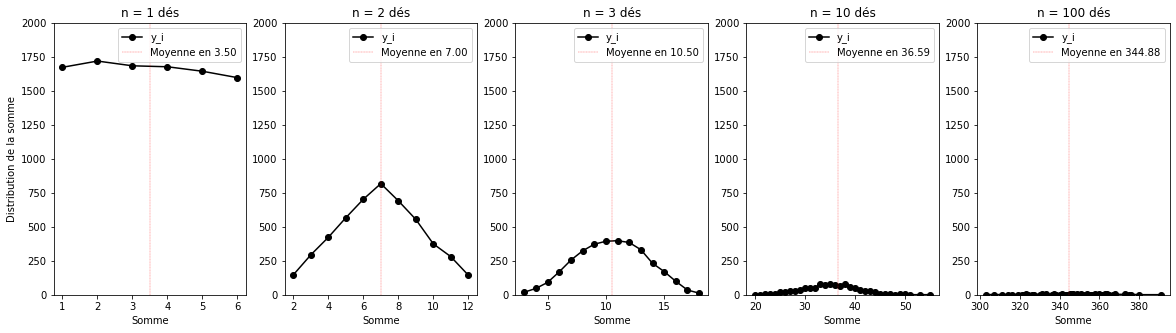
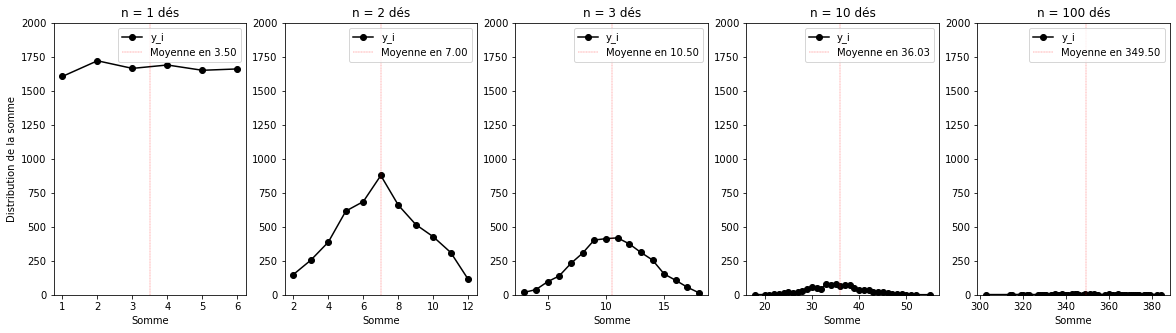
Update documentation

diff --git a/searchindex.js b/searchindex.js
@@ -1,1 +1,1 @@
-Search.setIndex({docnames:["content/LU2PY215/TP/TP1/TP1","content/LU2PY215/TP/TP2/TP2","content/LU2PY215/chapitre1/chapitre1","content/LU2PY215/chapitre1/exercices","content/LU2PY215/chapitre2/chapitre2","content/LU2PY215/chapitre2/exercices","content/LU2PY220/chapitre1","intro"],envversion:{"sphinx.domains.c":2,"sphinx.domains.changeset":1,"sphinx.domains.citation":1,"sphinx.domains.cpp":5,"sphinx.domains.index":1,"sphinx.domains.javascript":2,"sphinx.domains.math":2,"sphinx.domains.python":3,"sphinx.domains.rst":2,"sphinx.domains.std":2,"sphinx.ext.intersphinx":1,"sphinxcontrib.bibtex":9,sphinx:56},filenames:["content/LU2PY215/TP/TP1/TP1.ipynb","content/LU2PY215/TP/TP2/TP2.ipynb","content/LU2PY215/chapitre1/chapitre1.md","content/LU2PY215/chapitre1/exercices.ipynb","content/LU2PY215/chapitre2/chapitre2.md","content/LU2PY215/chapitre2/exercices.ipynb","content/LU2PY220/chapitre1.md","intro.md"],objects:{},objnames:{},objtypes:{},terms:{"0":[0,1,2,3,4,5],"000":0,"000e":0,"007":0,"01":3,"017e":0,"02":[0,4],"022":0,"03":1,"033":0,"044e":0,"047":0,"06":0,"07_15":1,"1":[1,4,7],"10":[0,2,3,4],"100":[0,2],"1000":[0,4,5],"10000":[0,3],"1000000":0,"1018":3,"108204":1,"10cm":4,"11":[0,1,4],"110":5,"12":[0,2,4],"125":4,"13":1,"130187":1,"133771":1,"14":[2,3],"15":[1,4],"16":[0,4],"166292":1,"170":4,"170cm":4,"18":1,"180":4,"180cm":4,"186":3,"1933":2,"1e6":0,"2":[1,2,6,7],"20":[0,3],"200":3,"2000":0,"24":1,"25":[0,2,4],"26":2,"260":4,"266":3,"28":2,"297":3,"2_x":2,"2_y":2,"2f":0,"2x":5,"2y":5,"3":[0,1,2,4],"320":3,"334":3,"350":0,"352623":1,"36":2,"368":3,"393e":0,"3e":0,"3f":[0,3],"3x":4,"4":[0,1,2,4],"411521":1,"417233":1,"454750":1,"5":[0,1,2,3,4],"50":[0,2],"509146":1,"52":4,"520":0,"566":3,"568":3,"578625":1,"587667":1,"6":[0,1,2,3,4],"643856189774724":3,"668104":1,"675438":1,"7":[0,1,2,3,4],"70":2,"736":0,"75":[2,4,5],"785792":1,"8":[0,1,2,4],"81":1,"875":3,"877":0,"9":[0,1,2,4],"917":0,"919563":1,"922195":1,"939":0,"989441":1,"99":3,"992":3,"999":3,"\u00e0":[0,1,2,3,4,5,6],"\u00e9cart":[0,2,4],"\u00e9chang":5,"\u00e9chantillon":4,"\u00e9chec":4,"\u00e9clo":5,"\u00e9closion":5,"\u00e9crire":[4,5,6],"\u00e9crit":5,"\u00e9gal":4,"\u00e9gale":[0,1,4,5],"\u00e9gaux":4,"\u00e9l\u00e9ment":[0,2,4],"\u00e9lectriqu":4,"\u00e9nergi":2,"\u00e9quation":[2,4],"\u00e9quiprob":4,"\u00e9tait":2,"\u00e9tudier":0,"\u00e9v\u00e8nement":[2,3,4,5],"\u00e9v\u00e9nement":[1,4],"\u00e9valuer":4,"\u00e9xpliquer":2,"\u00eatre":[2,4],"al\u00e9atoir":[0,2,5],"al\u00e9atori":2,"appara\u00eet":2,"appel\u00e9":4,"apr\u00e8":[0,2],"arriv\u00e9":4,"associ\u00e9":[3,4,5,6],"asym\u00e9tri":3,"asymm\u00e9tri":3,"atmosph\u00e9riqu":2,"calcul\u00e9":[0,4],"caract\u00e9ris":[3,4],"carr\u00e9":[2,4],"cart\u00e9sien":5,"collect\u00e9":4,"concentr\u00e9":4,"conna\u00eetr":2,"cons\u00e9cutif":2,"cons\u00e9quent":4,"consid\u00e8r":[2,3],"consid\u00e9r":5,"coordonn\u00e9":6,"corr\u00e9l\u00e9":2,"corr\u00e9lat":[2,3],"cr\u00e9\u00e9":[2,4],"cr\u00e9ation":4,"cr\u00e9e":[2,3],"d\u00e9":[2,4],"d\u00e9corr\u00e9l\u00e9":3,"d\u00e9couper":4,"d\u00e9crit":4,"d\u00e9duir":[2,4],"d\u00e9fini":[2,4,5],"d\u00e9finier":[2,4],"d\u00e9finir":[0,2,4],"d\u00e9finit":[4,5,6],"d\u00e9montrer":[4,5],"d\u00e9nombrabl":4,"d\u00e9part":4,"d\u00e9pend":2,"d\u00e9riv\u00e9":4,"d\u00e9termin":4,"d\u00e9velopp":7,"deuxi\u00e8m":[2,6],"diff\u00e9renc":[1,4],"diff\u00e9rentiel":4,"dispers\u00e9":4,"distribu\u00e9":[4,5],"divis\u00e9":2,"donn\u00e9":[0,3,4,5,6],"dur\u00e9":4,"esp\u00e8c":5,"esp\u00e9ranc":4,"exp\u00e9rienc":[2,4],"fa\u00e7on":[1,2,4],"final":[0,2,3,5],"fix\u00e9":4,"fl\u00e9chett":3,"fr\u00e9quenc":[0,2],"fr\u00e9quent":0,"g\u00e9n\u00e9rale":2,"g\u00e9n\u00e9rer":[4,5],"gr\u00e2ce":1,"humidit\u00e9":2,"hygrom\u00e9tri":2,"hypoth\u00e8s":0,"import":[0,1,2,3,4,5],"impr\u00e9vis":2,"ind\u00e9nombr":4,"ind\u00e9pend":2,"ind\u00e9pendant":[2,4,5],"inf\u00e9rieur":[2,4],"infinit\u00e9":4,"int":0,"int\u00e9gr\u00e9":4,"int\u00e9gral":4,"intitul\u00e9":2,"jou\u00e9":4,"l\u00e9gend":4,"lan\u00e7ag":0,"limit\u00e9":5,"long":4,"m\u00e9dian":[2,4],"m\u00e9t\u00e9o":2,"m\u00e9t\u00e9orologiqu":2,"m\u00eame":[0,2,3,4,5,6],"mani\u00e8r":[0,4],"marqu\u00e9":4,"math\u00e9matiqu":[2,4],"maturi\u00e9":5,"maturit\u00e9":5,"mod\u00e8l":[2,4],"moiti\u00e9":2,"n\u00e9gativ":2,"n\u00e9glige":2,"normalis\u00e9":[4,5],"not\u00e9":[2,4],"null":4,"num\u00e9riqu":2,"num\u00e9ro":1,"o\u00f9":[0,2,3,4,6],"organis\u00e9":7,"p\u00e9riod":4,"parall\u00e9logramm":6,"param\u00e8tr":[0,2,4,5],"pass\u00e9":[0,2],"perp\u00e9ndiculair":6,"ph\u00e9nom\u00e8n":2,"pi\u00e8c":[2,4],"pip\u00e9":0,"pond\u00e9r\u00e9":4,"pr\u00e9c\u00e9dent":[2,4],"pr\u00e9cise":[0,2],"pr\u00e9dictif":2,"pr\u00e9diction":2,"pr\u00e9dire":2,"pr\u00e9duir":2,"pr\u00e9pare":2,"premi\u00e8r":[1,2],"probabilit\u00e9":[3,5],"probabilt\u00e9":4,"propri\u00e9t\u00e9":4,"propriet\u00e9":2,"quantit\u00e9":2,"r\u00e8gle":[2,4,6],"r\u00e9action":4,"r\u00e9cup\u00e9rer":0,"r\u00e9ecrit":4,"r\u00e9ell":4,"r\u00e9ferenc":4,"r\u00e9p\u00e8te":4,"r\u00e9p\u00e9t\u00e9e":0,"r\u00e9p\u00e9tabl":2,"r\u00e9parti":4,"r\u00e9partit":4,"r\u00e9pons":2,"r\u00e9present":6,"r\u00e9soudr":[4,5],"r\u00e9sultat":[0,2,4,5],"r\u00e9ussit":4,"r\u00f4le":5,"repr\u00e9sent":4,"repres\u00e9nt":6,"return":[0,1,3,4,5],"s\u00e9pare":2,"s\u00e9parent":2,"similarit\u00e9":2,"succ\u00e8":4,"sup\u00e9rieur":[0,2],"syst\u00e8m":2,"temp\u00e9rateur":2,"temp\u00e9ratur":[2,3,4],"th\u00e9or\u00e8m":2,"th\u00e9ori":2,"th\u00e9oriqu":4,"tr\u00e8":[0,2,4,7],"trouv\u00e9":0,"true":[0,1,3,4,5],"uniform\u00e9":[4,5],"v\u00e9rifient":4,"v\u00e9rifier":[0,5],"validit\u00e9":4,"var":[2,3],"wikip\u00e9dia":4,A:[2,3,6],On:[0,1,2,3,4,5,6],_0:4,_:[0,2,3,4,5],ab:[0,6],absciss:4,ac:6,acoust:1,additionn:0,affich:[0,1,2,3],affichag:0,aid:[4,6],aider:2,ailleur:4,ainsi:[2,3,4,5,6],air:[2,4],ait:2,ajout:0,alami:2,aleatoir:4,all:1,allon:0,alor:[0,2,3,4],alpha:[2,3,4,5],ampoul:4,analys:2,andrei:2,apliqu:5,apparit:[0,2],apparu:0,appel:2,append:[0,3],applatiss:3,applatissement_1:3,applatissement_press:3,appliqu:4,approx:4,ar:0,arang:[0,1,5],arcco:5,arcosinu:5,argmax:4,arriv:[4,5],arriveront:5,artist:1,associ:4,asymmetrie_1:3,asymmetrie_2:3,asymmetrie_pression_1:3,asymmetrie_pression_2:3,attendu:[0,5],attent:4,au:[2,3,4,6],augment:0,aura:4,aurait:2,aussi:[2,3,4,6],autour:4,autr:[0,2,3],aux:[2,3,4],avanc:2,avec:[1,2,3,4,5],avez:7,avoir:[0,2,3,4],avon:3,ax1:0,ax2:[0,2],ax3:0,ax4:0,ax5:0,ax:[0,2,4],axi:[2,5],axiom:2,axvlin:0,b:[2,3,4,6],b_1:2,b_2:2,b_i:2,b_n:2,ball:4,bar:[2,3],basket:4,bay:2,bc:6,begin:6,besoin:2,bien:[2,4,5],bienvenu:7,biject:5,bin:[0,2,3,4,5],binom:[4,5],binomial:5,bins_list:2,black:[0,2],bordur:3,born:0,c0:2,c1:2,c:[0,2,3],ca:[0,2,3,4,5],calcul:[1,2,3,4,5],calcul_ecart_apparit:0,calcul_ecart_valeurs_frequ:0,calcul_frequ:0,calcul_frequence_apparit:0,calcul_yi:0,calul:4,cap:[2,3],car:[0,2,4,5,7],cart:4,cd:6,ce:[0,2,6,7],cela:[0,4],cell:[0,4],celsiu:2,central:2,cepend:[0,4],certain:[2,4,5],cet:5,cett:[0,1,2,3,4],chanc:4,chang:[2,5],chapitr:7,chaqu:[0,1,4],cherch:3,chimiqu:4,choisi:4,choisissez:4,chose:5,cibl:3,classiqu:4,clf:3,client:4,close:0,cm:4,co:5,code:4,codomain:4,coeffici:[2,3],colonn:1,color:[0,2],column:[2,3],com:[2,3],combien:3,combin:0,combinaison:4,combinatio:0,comm:[2,4],commenc:0,comment:2,compa:6,compar:[1,3,4],composit:6,compri:5,compris:4,compt:4,comptag:4,compter:5,concluir:2,conclur:0,conditionnel:2,confront:2,connu:4,constaton:5,construir:2,contenu:7,contient:0,continu:5,convers:3,convertir:2,corp:4,corrcoef:3,correl:3,correlation_temp_press:3,correspond:4,cosinu:5,count:0,coupl:6,cour:[2,7],courb:4,cov:[2,3],covari:[2,3],covariance_temp_press:3,create_list:0,creation:4,crois:5,croissant:[4,5],csv:[1,2,3],cumul:[4,5],cup:[2,3],d:[2,3,5,6],dan:[0,2,3,4,5,7],data:1,date:[2,3],date_object:2,dateformatt:2,datetim:[2,3],de:[3,5,7],def:[0,1,3,4,5],definir:6,delta:4,densiti:[0,4,5],deux:[0,1,2,3,4,5,6],devient:[0,5],devraient:0,df:[2,4],dg:4,diff:1,differ:[1,2],dire:[0,2,3,4,7],discret:4,dispers:[2,4],dispos:4,disposon:4,distingu:4,distribut:[2,3,4,5],dit:[0,2],divis:4,doit:[0,3,4],domain:4,donc:[0,2,3,4,5,7],donn:[4,5,6],donnant:4,donner:[2,5],dont:[0,4],dot:2,download:[2,3],droit:[0,5,6],dropna:1,dt:[2,3,4],du:[2,3,4,5],dx:[4,5],dy:4,e:[4,5],ec:0,ecart:[0,2,4],ecart_moyen:0,ecart_moyen_apparit:0,ecart_moyen_vari:0,ell:[0,2,3,4,5],emptyset:4,en:[0,1,3,4,5,7],end:[0,6],ensembl:[2,3,4],ensemblr:2,entier:2,entour:2,entr:[0,1,2,3,4,5],envi:4,environ:0,erf:4,erreur:7,errorbar:1,errorbarcontain:1,es:[2,3],espac:[4,7],est:[0,1,2,3,5,6,7],estim:4,et:[3,5,6],etc:[0,1,2,4],eu:2,eux:[5,6],event:1,exact:4,exampl:0,exempl:[0,1,2,5],exercic:2,exercis:4,exp:4,expliqu:0,exponentiel:4,extern:6,extract:[2,3],extrair:[3,4],extrem:4,f:[4,5],f_i:[0,3],f_inv:[4,5],face:[0,2,4],fair:[0,2],fait:[0,2,4],fals:[1,3],fauss:2,faut:1,faux:2,fier:7,fig:[0,2,4],figsiz:0,figur:[0,2,4],file:4,fin:[0,4],fine:2,fini:4,flechett:3,fmt:1,foi:[0,2,3,4,5],fonction:[0,1,2,3,5],form:[0,3,5],format:[0,3],forment:6,formul:[1,3,4,5],fortement:2,foundat:2,frac:[0,2,3,4,5],frequenc:0,frequence_apparition_dans_y_i:0,from:[0,2,3,4],futur:2,g:[1,4],gamm:4,gard:0,gaussian:4,gaussienn:[],gaz:4,gen:4,geq:[3,4],get:[0,3],get_hist_not_graph:0,github:[2,3],given:0,grand:[0,2,3,4],grandeur:3,graphiqu:[0,2],guiguem:[2,3],guillemotleft:[],h:[2,3],hasard:4,hat:4,hauteur:4,head:1,header:[2,3],here:[],hist:[0,2,3,4,5],histogramm:[2,3],how:0,hpa:[2,3],http:[2,3],hygrometri:2,i:[0,1,2,3,4,5],i_:3,i_i:3,il:[1,2,3,4,6],illustr:2,imag:[2,4],impair:2,important:[2,4],imposs:4,incertidud:4,incompat:3,index:0,individu:4,infini:4,infti:[2,4],inject:4,insid:[],int_:[4,5],int_a:4,integr:4,intern:6,interv:[0,1],interval:[0,1,4,5],interval_diff_compar:1,invers:[4,5],isol:5,j:0,jamai:5,je:7,jet:0,jett:0,jeu:[0,4],joueur:[3,4],jour:4,just:0,justifi:3,k:[3,4,5],kappa:3,keep:0,kolmogorov:2,l:[0,1,2,3,4,5],la:[0,1,3,5,6],label:[0,3,4,5],labelcolor:2,lambda:[4,5],lanc:2,lancer:[0,3,4],le:[0,1,2,3,4,5,6,7],left:[4,5],leg:4,legend:[0,4,5],len:[0,1,3],leq:[2,4],leqq:2,lesquel:4,leur:0,librairi:4,lieu:2,lign:1,lim:2,lim_:4,linestyl:0,linewidth:0,lire:3,list:[2,3,4],list_moyenn:3,list_n:3,list_somme_pair:0,list_vari:3,lista:0,listb:0,listc:0,listd:0,liste1:3,liste2:3,livr:2,log:3,logiciel:4,logiqu:0,loi:[5,6],lor:[0,4],lorsqu:[0,3,4],lt:4,m:[1,2,3,4,6],mai:[0,4],mainten:[0,3,6],mani:0,maplotlib:4,markers:[4,5],marqu:4,marquer:4,match:4,math:4,mathbb:4,mathcal:[2,3],matplotlib:[0,1,2,3,4,5],maximal:[0,2],mdate:2,me:7,mean:[0,2,3],med:4,median:2,merci:7,mesur:[2,3],meteo:[2,3],method:0,minimal:[0,2,3],minut:4,miu:3,mode:[2,4],moin:[0,2,3],mon:7,monnai:4,monoton:5,montr:[0,6],morceaux:4,moyen:[0,4],moyenn:[0,2,3,4,5],moyenne_bin:3,moyenne_ecarts_valeurs_frequ:0,moyenne_freq:0,moyenne_pair:0,moyenne_press:3,mu:4,n:[0,2,3,4,5],n_1:4,n_2:4,n_3:4,n_:3,n_i:4,n_unif:[4,5],n_valeur:0,nan:1,naturel:2,ne:[0,2,5],neq:2,nombr:[0,2,3,4,5],nombre_essai:3,nombre_succ:3,nombreus:4,nombreux:5,non:4,normal:0,notat:2,note:[2,4],noter:4,notr:5,nou:[0,2,3,4,5],nouveau:[2,7],np:[0,1,2,3,4,5],nul:4,num:0,num_point:0,numpi:[0,1,2,3,4,5],o:[0,1,3,4,6],object:[0,1],objet:[2,3],observ:[2,4],obtenir:[0,2,4,5],obtenu:[0,2],obtient:[0,2],occur:[0,2],oeuf:[4,5],om:6,omega:[2,3,4],one:0,ont:3,operatornam:4,ordonn:4,origin:6,ou:[0,2,3,7],oui:5,overlin:2,p:[0,2,3,4,5],pa:[0,2,3,4,5],pair:[0,2],panda:[1,2,3],panier:4,par:[0,2,4,5,6],parmi:[2,4,5],partag:7,particuli:4,partir:[2,3,4,6],pass:5,patch:[0,3,4,5],pd:[1,2,3],pdf:4,pendant:4,period:2,permet:[0,2,4,5],permettr:4,personn:4,personnel:7,petit:[2,4,5],peut:[0,2,3,4,5,6],peuvent:4,phi:4,physexp2:[2,3],pi:[4,5],pile:[2,4],place:6,plan:[5,6],plot:[0,1,2,3,4,5],plt:[0,1,2,3,4,5],plu:[0,2,3,4],plusieur:4,pmatrix:6,pmf:4,point:[5,6],poisson:5,pondent:5,pondr:5,pondu:[4,5],pont:5,popul:4,posit:4,positiv:2,possibl:[2,4],poue:5,poul:4,pour:[0,1,2,3,4,5],pourquoi:0,pourra:4,pourrait:6,pouvait:4,pouvoir:2,pow:4,power:4,premier:3,prend:4,prendr:[2,4],prenn:4,pression:[2,3,4],pressur:2,print:[0,1,2,3],prise:[2,4],proba:3,probabl:2,processu:[2,4],proch:[0,4],produir:[4,5],produis:[4,5],produit:[2,6],projet:7,proportionnel:4,proposit:2,publi:2,pui:0,pyplot:[0,1,2,3,4,5],python:[0,4,5],q:[2,4],qu:[0,2,3,5],quad:4,quand:0,quantil:2,que:[0,1,2,3,5,6],quelconqu:6,quell:[2,5],quelqu:[2,4],question:7,qui:[0,1,2,4,5],r:[0,4,5],racin:2,rand:[4,5],randint:0,random:[3,4,5],rang:[0,1,2,3,4,5],rappel:[2,4,5],rapport:[0,2,4],rapproch:0,read_csv:[1,2,3],recherch:2,red:0,rel:2,relat:[2,4],releas:[2,3],remarqu:2,remov:0,repeat:0,reshape_yi:0,respect:2,restreint:2,retourn:[0,3,4],rho:2,rho_:3,right:[4,5],rightarrow:[2,4],rotat:2,round:[0,1],s:[1,2,3,4],sa:[0,2,3,4],sachant:2,sait:[2,3],san:0,scipi:[2,3,4],sdfltuw6gho:2,se:[0,4,5],second:2,selon:[0,4,5,7],sep:1,sera:4,servir:2,set:0,set_major_formatt:2,set_minor_formatt:2,set_titl:0,set_xlabel:[0,2,4],set_ylabel:[0,2],set_ylim:0,seul:4,seulement:2,sharei:0,show:[0,1,2,3,4,5],si:[0,2,3,4,5,6,7],sig:4,sigma:[2,3,4],sigma_:[2,3],sigma_i:[0,2,3],sigma_k:4,sigma_p:4,sigma_x:[2,3],signifi:[0,4],simpl:2,simul:3,sin:[4,5],sinon:3,sinusoidal:5,situ:0,six:4,skew:3,soient:6,soit:[2,3,4],solut:[4,5],somm:[2,3,4,6],somment:4,son:2,sont:[0,2,3,4,6],sou:[2,3,4,5],souvent:2,sqrt:[2,4],start:0,stat:[2,3,4],statistiqu:[3,4],std:[2,3],step:[0,5],stopwatch_2023:1,str:0,strptime:[2,3],subplot:[0,2,4],substitu:4,sui:7,suit:[4,5],suivant:[2,4,5,7],suivent:0,sum:[0,2,3],sum_:[0,2,3,4,5],sum_i:0,support:4,suppos:[2,4],supposon:[2,4],supprim:1,sur:[0,2,3,5],surject:4,t:4,t_i:1,tableau:7,taill:[0,2,4],tel:2,tell:4,temp:[1,2,3,4,5],temperatur:2,temporel:2,tend:0,tendanc:[2,3],tent:4,term:[4,5],tester:[4,5],text:4,textbf:6,theori:2,theoriqu:3,tick_param:2,tight_layout:0,time:[0,1,2,4,5],tirag:4,tire:3,tirer:3,tireur:3,titl:[0,1,3,4,5],titr:4,to_list:[2,3],to_numer:[2,3],tomb:2,tomber:2,tortu:5,total:[0,4],tou:5,touch:3,touche_c:3,toucher:3,toujour:[2,4],tout:[4,7],tp:0,trace:1,tracer:[3,6],tranch:2,transform:4,triangulair:0,trouv:4,trouver:[2,3,4,5],trouverait:2,trouvez:7,twinx:2,two:0,type:[0,2,4],u:6,un:[2,3,5,6,7],underset:4,uniform:[0,5],uniqu:[0,2],univ:[2,3,4],updat:5,url:[2,3],utilis:[2,3,4,5],v1:[2,3],v:[2,3,6],v_i:1,va:[0,2,3,4],val:4,valent:3,valeu:2,valeur:[0,2,3,4,5],valeurs_n:0,valid:5,valu:[0,4,5],variabl:2,varianc:[2,3,4],variance_bin:3,variance_press:3,variat:[0,2],vaut:[3,4,5],vec:6,vectoriel:6,vent:4,ver:0,verif:0,verifi:1,verifiez:[2,4],veut:[0,3,4,5],vie:[4,7],visuel:0,vitess:[1,2,4],voir:[0,2,4],voit:0,vou:[4,7],voulon:4,vrai:2,vraie:2,vs:[2,4],vue:3,w:6,watch:2,we:0,what:[],when:0,without:3,www:2,x1:4,x2:4,x:[0,1,2,3,4,5,6],x_0:0,x_1:0,x_2:0,x_3:0,x_4:0,x_5:0,x_6:0,x_7:0,x_:4,x_i:[0,2,3,4],xaxi:2,xlabel:[0,1,3,4,5],xtick:[2,5],xy:[2,3],y1:[2,4],y2:4,y:[0,1,2,3,4,5],y_0:0,y_1:0,y_2:0,y_3:0,y_i:[0,2,3,4],yerr:1,ylabel:[0,1,3,4,5],youtub:2,zip:3},titles:["TP1 : Distribution du tirage de d\u00e9s","TP2 : Mesure du coefficient de rebond d\u2019une balle","Chapitre 1","Exercice 1","Chapitre 2","Exercise 5","Chapitre 1","Physique CA"],titleterms:{"1":[0,2,3,5,6],"2":[0,3,4,5],"3":[3,5],"4":[3,5],"5":5,"6":5,"\u00e9chantillon":2,"al\u00e9atoir":4,"caract\u00e9ris":2,"cart\u00e9sienn":6,"coordon\u00e9":6,"cr\u00e9ation":0,"d\u00e9":0,"d\u00e9finit":2,"d\u00e9monstrat":4,"densit\u00e9":4,"discr\u00e8t":4,"donn\u00e9":2,"exp\u00e9rimental":[2,4,7],"g\u00e9n\u00e9ration":[0,4],"m\u00e9thode":7,"math\u00e9matiqu":7,"orthonorm\u00e9":6,"probabilit\u00e9":[0,2,4],"propri\u00e9t\u00e9":2,"r\u00e9lation":6,"rep\u00e9rer":6,"repr\u00e9sent":2,"syst\u00e8m":6,arguello:[0,1],auteur:[0,1],avec:0,ball:1,bernoulli:4,biject:4,binomial:4,c:4,ca:7,calcul:0,camilo:[0,1],ce:4,changement:4,chapitr:[2,4,6],chasl:6,coeffici:1,comment:6,concept:2,continu:4,d:[0,1,4],dan:6,de:[0,1,2,4,6],distribut:0,du:[0,1],en:2,ensemblist:2,erreur:4,espac:6,est:4,estim:0,estimateur:4,et:[0,2,4],exempl:4,exercic:3,exercis:5,fonction:4,form:4,gaussienn:4,histogramm:0,identiqu:6,introduct:0,l:6,la:[2,4],list:0,loi:4,mesur:[1,4],normal:4,notion:4,ou:4,physiqu:[2,7],pipag:0,place:2,poisson:4,popul:2,qu:4,que:4,question:5,random:0,rebond:1,remplissag:0,se:6,somm:0,statistiqu:2,sur:4,tirag:0,tp1:0,tp2:1,un:[0,1,4],uniform:4,usuel:4,variabl:4,vecteur:6}})
+Search.setIndex({docnames:["content/LU2PY215/TP/TP1/TP1","content/LU2PY215/TP/TP2/TP2","content/LU2PY215/chapitre1/chapitre1","content/LU2PY215/chapitre1/exercices","content/LU2PY215/chapitre2/chapitre2","content/LU2PY215/chapitre2/exercices","content/LU2PY220/chapitre1","intro"],envversion:{"sphinx.domains.c":2,"sphinx.domains.changeset":1,"sphinx.domains.citation":1,"sphinx.domains.cpp":5,"sphinx.domains.index":1,"sphinx.domains.javascript":2,"sphinx.domains.math":2,"sphinx.domains.python":3,"sphinx.domains.rst":2,"sphinx.domains.std":2,"sphinx.ext.intersphinx":1,"sphinxcontrib.bibtex":9,sphinx:56},filenames:["content/LU2PY215/TP/TP1/TP1.ipynb","content/LU2PY215/TP/TP2/TP2.ipynb","content/LU2PY215/chapitre1/chapitre1.md","content/LU2PY215/chapitre1/exercices.ipynb","content/LU2PY215/chapitre2/chapitre2.md","content/LU2PY215/chapitre2/exercices.ipynb","content/LU2PY220/chapitre1.md","intro.md"],objects:{},objnames:{},objtypes:{},terms:{"0":[0,1,2,3,4,5],"000":0,"000e":0,"007":0,"01":3,"02":[0,4],"022":0,"03":1,"033":0,"047":0,"052e":0,"057e":0,"06":0,"077e":0,"07_15":1,"1":[1,4,7],"10":[0,2,3,4],"100":[0,2],"1000":[0,4,5],"10000":[0,3],"1000000":0,"1018":3,"108204":1,"10cm":4,"11":[0,1,4],"110":5,"12":[0,2,4],"125":4,"13":1,"130187":1,"133771":1,"14":[2,3],"15":[1,4],"16":[0,4],"166292":1,"170":4,"170cm":4,"18":1,"180":4,"180cm":4,"186":3,"1933":2,"1e6":0,"2":[1,2,6,7],"20":[0,3],"200":3,"2000":0,"24":1,"25":[0,2,4],"26":2,"260":4,"266":3,"28":2,"297":3,"2_x":2,"2_y":2,"2f":0,"2x":5,"2y":5,"3":[0,1,2,4],"320":3,"334":3,"350":0,"352623":1,"36":2,"368":3,"3e":0,"3f":[0,3],"3x":4,"4":[0,1,2,4],"411521":1,"417233":1,"454750":1,"5":[0,1,2,3,4],"50":[0,2],"509146":1,"52":4,"520":0,"566":3,"568":3,"578625":1,"587667":1,"6":[0,1,2,3,4],"643856189774724":3,"668104":1,"675438":1,"695":0,"7":[0,1,2,3,4],"70":2,"75":[2,4,5],"785792":1,"8":[0,1,2,4],"81":1,"875":3,"877":0,"9":[0,1,2,4],"917":0,"919563":1,"922195":1,"937":0,"989441":1,"99":3,"992":3,"999":3,"\u00e0":[0,1,2,3,4,5,6],"\u00e9cart":[0,2,4],"\u00e9chang":5,"\u00e9chantillon":4,"\u00e9chec":4,"\u00e9clo":5,"\u00e9closion":5,"\u00e9crire":[4,5,6],"\u00e9crit":5,"\u00e9gal":4,"\u00e9gale":[0,1,4,5],"\u00e9gaux":4,"\u00e9l\u00e9ment":[0,2,4],"\u00e9lectriqu":4,"\u00e9nergi":2,"\u00e9quation":[2,4],"\u00e9quiprob":4,"\u00e9tait":2,"\u00e9tudier":0,"\u00e9v\u00e8nement":[2,3,4,5],"\u00e9v\u00e9nement":[1,4],"\u00e9valuer":4,"\u00e9xpliquer":2,"\u00eatre":[2,4],"al\u00e9atoir":[0,2,5],"al\u00e9atori":2,"appara\u00eet":2,"appel\u00e9":4,"apr\u00e8":[0,2],"arriv\u00e9":4,"associ\u00e9":[3,4,5,6],"asym\u00e9tri":3,"asymm\u00e9tri":3,"atmosph\u00e9riqu":2,"calcul\u00e9":[0,4],"caract\u00e9ris":[3,4],"carr\u00e9":[2,4],"cart\u00e9sien":5,"collect\u00e9":4,"concentr\u00e9":4,"conna\u00eetr":2,"cons\u00e9cutif":2,"cons\u00e9quent":4,"consid\u00e8r":[2,3],"consid\u00e9r":5,"coordonn\u00e9":6,"corr\u00e9l\u00e9":2,"corr\u00e9lat":[2,3],"cr\u00e9\u00e9":[2,4],"cr\u00e9ation":4,"cr\u00e9e":[2,3],"d\u00e9":[2,4],"d\u00e9corr\u00e9l\u00e9":3,"d\u00e9couper":4,"d\u00e9crit":4,"d\u00e9duir":[2,4],"d\u00e9fini":[2,4,5],"d\u00e9finier":[2,4],"d\u00e9finir":[0,2,4],"d\u00e9finit":[4,5,6],"d\u00e9montrer":[4,5],"d\u00e9nombrabl":4,"d\u00e9part":4,"d\u00e9pend":2,"d\u00e9riv\u00e9":4,"d\u00e9termin":4,"d\u00e9velopp":7,"deuxi\u00e8m":[2,6],"diff\u00e9renc":[1,4],"diff\u00e9rentiel":4,"dispers\u00e9":4,"distribu\u00e9":[4,5],"divis\u00e9":2,"donn\u00e9":[0,3,4,5,6],"dur\u00e9":4,"esp\u00e8c":5,"esp\u00e9ranc":4,"exp\u00e9rienc":[2,4],"fa\u00e7on":[1,2,4],"final":[0,2,3,5],"fix\u00e9":4,"fl\u00e9chett":3,"fr\u00e9quenc":[0,2],"fr\u00e9quent":0,"g\u00e9n\u00e9rale":2,"g\u00e9n\u00e9rer":[4,5],"gr\u00e2ce":1,"humidit\u00e9":2,"hygrom\u00e9tri":2,"hypoth\u00e8s":0,"import":[0,1,2,3,4,5],"impr\u00e9vis":2,"ind\u00e9nombr":4,"ind\u00e9pend":2,"ind\u00e9pendant":[2,4,5],"inf\u00e9rieur":[2,4],"infinit\u00e9":4,"int":0,"int\u00e9gr\u00e9":4,"int\u00e9gral":4,"intitul\u00e9":2,"jou\u00e9":4,"l\u00e9gend":4,"lan\u00e7ag":0,"limit\u00e9":5,"long":4,"m\u00e9dian":[2,4],"m\u00e9t\u00e9o":2,"m\u00e9t\u00e9orologiqu":2,"m\u00eame":[0,2,3,4,5,6],"mani\u00e8r":[0,4],"marqu\u00e9":4,"math\u00e9matiqu":[2,4],"maturi\u00e9":5,"maturit\u00e9":5,"mod\u00e8l":[2,4],"moiti\u00e9":2,"n\u00e9gativ":2,"n\u00e9glige":2,"normalis\u00e9":[4,5],"not\u00e9":[2,4],"null":4,"num\u00e9riqu":2,"num\u00e9ro":1,"o\u00f9":[0,2,3,4,6],"organis\u00e9":7,"p\u00e9riod":4,"parall\u00e9logramm":6,"param\u00e8tr":[0,2,4,5],"pass\u00e9":[0,2],"perp\u00e9ndiculair":6,"ph\u00e9nom\u00e8n":2,"pi\u00e8c":[2,4],"pip\u00e9":0,"pond\u00e9r\u00e9":4,"pr\u00e9c\u00e9dent":[2,4],"pr\u00e9cise":[0,2],"pr\u00e9dictif":2,"pr\u00e9diction":2,"pr\u00e9dire":2,"pr\u00e9duir":2,"pr\u00e9pare":2,"premi\u00e8r":[1,2],"probabilit\u00e9":[3,5],"probabilt\u00e9":4,"propri\u00e9t\u00e9":4,"propriet\u00e9":2,"quantit\u00e9":2,"r\u00e8gle":[2,4,6],"r\u00e9action":4,"r\u00e9cup\u00e9rer":0,"r\u00e9ecrit":4,"r\u00e9ell":4,"r\u00e9ferenc":4,"r\u00e9p\u00e8te":4,"r\u00e9p\u00e9t\u00e9e":0,"r\u00e9p\u00e9tabl":2,"r\u00e9parti":4,"r\u00e9partit":4,"r\u00e9pons":2,"r\u00e9present":6,"r\u00e9soudr":[4,5],"r\u00e9sultat":[0,2,4,5],"r\u00e9ussit":4,"r\u00f4le":5,"repr\u00e9sent":4,"repres\u00e9nt":6,"return":[0,1,3,4,5],"s\u00e9pare":2,"s\u00e9parent":2,"similarit\u00e9":2,"succ\u00e8":4,"sup\u00e9rieur":[0,2],"syst\u00e8m":2,"temp\u00e9rateur":2,"temp\u00e9ratur":[2,3,4],"th\u00e9or\u00e8m":2,"th\u00e9ori":2,"th\u00e9oriqu":4,"tr\u00e8":[0,2,4,7],"trouv\u00e9":0,"true":[0,1,3,4,5],"uniform\u00e9":[4,5],"v\u00e9rifient":4,"v\u00e9rifier":[0,5],"validit\u00e9":4,"var":[2,3],"wikip\u00e9dia":4,A:[2,3,6],On:[0,1,2,3,4,5,6],_0:4,_:[0,2,3,4,5],ab:[0,6],absciss:4,ac:6,acoust:1,additionn:0,affich:[0,1,2,3],affichag:0,aid:[4,6],aider:2,ailleur:4,ainsi:[2,3,4,5,6],air:[2,4],ait:2,ajout:0,alami:2,aleatoir:4,all:1,allon:0,alor:[0,2,3,4],alpha:[2,3,4,5],ampoul:4,analys:2,andrei:2,apliqu:5,apparit:[0,2],apparu:0,appel:2,append:[0,3],applatiss:3,applatissement_1:3,applatissement_press:3,appliqu:4,approx:4,ar:0,arang:[0,1,5],arcco:5,arcosinu:5,argmax:4,arriv:[4,5],arriveront:5,artist:1,associ:4,asymmetrie_1:3,asymmetrie_2:3,asymmetrie_pression_1:3,asymmetrie_pression_2:3,attendu:[0,5],attent:4,au:[2,3,4,6],augment:0,aura:4,aurait:2,aussi:[2,3,4,6],autour:4,autr:[0,2,3],aux:[2,3,4],avanc:2,avec:[1,2,3,4,5],avez:7,avoir:[0,2,3,4],avon:3,ax1:0,ax2:[0,2],ax3:0,ax4:0,ax5:0,ax:[0,2,4],axi:[2,5],axiom:2,axvlin:0,b:[2,3,4,6],b_1:2,b_2:2,b_i:2,b_n:2,ball:4,bar:[2,3],basket:4,bay:2,bc:6,begin:6,besoin:2,bien:[2,4,5],bienvenu:7,biject:5,bin:[0,2,3,4,5],binom:[4,5],binomial:5,bins_list:2,black:[0,2],bordur:3,born:0,c0:2,c1:2,c:[0,2,3],ca:[0,2,3,4,5],calcul:[1,2,3,4,5],calcul_ecart_apparit:0,calcul_ecart_valeurs_frequ:0,calcul_frequ:0,calcul_frequence_apparit:0,calcul_yi:0,calul:4,cap:[2,3],car:[0,2,4,5,7],cart:4,cd:6,ce:[0,2,6,7],cela:[0,4],cell:[0,4],celsiu:2,central:2,cepend:[0,4],certain:[2,4,5],cet:5,cett:[0,1,2,3,4],chanc:4,chang:[2,5],chapitr:7,chaqu:[0,1,4],cherch:3,chimiqu:4,choisi:4,choisissez:4,chose:5,cibl:3,classiqu:4,clf:3,client:4,close:0,cm:4,co:5,code:4,codomain:4,coeffici:[2,3],colonn:1,color:[0,2],column:[2,3],com:[2,3],combien:3,combin:0,combinaison:4,combinatio:0,comm:[2,4],commenc:0,comment:2,compa:6,compar:[1,3,4],composit:6,compri:5,compris:4,compt:4,comptag:4,compter:5,concluir:2,conclur:0,conditionnel:2,confront:2,connu:4,constaton:5,construir:2,contenu:7,contient:0,continu:5,convers:3,convertir:2,corp:4,corrcoef:3,correl:3,correlation_temp_press:3,correspond:4,cosinu:5,count:0,coupl:6,cour:[2,7],courb:4,cov:[2,3],covari:[2,3],covariance_temp_press:3,create_list:0,creation:4,crois:5,croissant:[4,5],csv:[1,2,3],cumul:[4,5],cup:[2,3],d:[2,3,5,6],dan:[0,2,3,4,5,7],data:1,date:[2,3],date_object:2,dateformatt:2,datetim:[2,3],de:[3,5,7],def:[0,1,3,4,5],definir:6,delta:4,densiti:[0,4,5],deux:[0,1,2,3,4,5,6],devient:[0,5],devraient:0,df:[2,4],dg:4,diff:1,differ:[1,2],dire:[0,2,3,4,7],discret:4,dispers:[2,4],dispos:4,disposon:4,distingu:4,distribut:[2,3,4,5],dit:[0,2],divis:4,doit:[0,3,4],domain:4,donc:[0,2,3,4,5,7],donn:[4,5,6],donnant:4,donner:[2,5],dont:[0,4],dot:2,download:[2,3],droit:[0,5,6],dropna:1,dt:[2,3,4],du:[2,3,4,5],dx:[4,5],dy:4,e:[4,5],ec:0,ecart:[0,2,4],ecart_moyen:0,ecart_moyen_apparit:0,ecart_moyen_vari:0,ell:[0,2,3,4,5],emptyset:4,en:[0,1,3,4,5,7],end:[0,6],ensembl:[2,3,4],ensemblr:2,entier:2,entour:2,entr:[0,1,2,3,4,5],envi:4,environ:0,erf:4,erreur:7,errorbar:1,errorbarcontain:1,es:[2,3],espac:[4,7],est:[0,1,2,3,5,6,7],estim:4,et:[3,5,6],etc:[0,1,2,4],eu:2,eux:[5,6],event:1,exact:4,exampl:0,exempl:[0,1,2,5],exercic:2,exercis:4,exp:4,expliqu:0,exponentiel:4,extern:6,extract:[2,3],extrair:[3,4],extrem:4,f:[4,5],f_i:[0,3],f_inv:[4,5],face:[0,2,4],fair:[0,2],fait:[0,2,4],fals:[1,3],fauss:2,faut:1,faux:2,fier:7,fig:[0,2,4],figsiz:0,figur:[0,2,4],file:4,fin:[0,4],fine:2,fini:4,flechett:3,fmt:1,foi:[0,2,3,4,5],fonction:[0,1,2,3,5],form:[0,3,5],format:[0,3],forment:6,formul:[1,3,4,5],fortement:2,foundat:2,frac:[0,2,3,4,5],frequenc:0,frequence_apparition_dans_y_i:0,from:[0,2,3,4],futur:2,g:[1,4],gamm:4,gard:0,gaussian:4,gaz:4,gen:4,geq:[3,4],get:[0,3],get_hist_not_graph:0,github:[2,3],given:0,grand:[0,2,3,4],grandeur:3,graphiqu:[0,2],guiguem:[2,3],h:[2,3],hasard:4,hat:4,hauteur:4,head:1,header:[2,3],hist:[0,2,3,4,5],histogramm:[2,3],how:0,hpa:[2,3],http:[2,3],hygrometri:2,i:[0,1,2,3,4,5],i_:3,i_i:3,il:[1,2,3,4,6],illustr:2,imag:[2,4],impair:2,important:[2,4],imposs:4,incertidud:4,incompat:3,index:0,individu:4,infini:4,infti:[2,4],inject:4,int_:[4,5],int_a:4,integr:4,intern:6,interv:[0,1],interval:[0,1,4,5],interval_diff_compar:1,invers:[4,5],isol:5,j:0,jamai:5,je:7,jet:0,jett:0,jeu:[0,4],joueur:[3,4],jour:4,just:0,justifi:3,k:[3,4,5],kappa:3,keep:0,kolmogorov:2,l:[0,1,2,3,4,5],la:[0,1,3,5,6],label:[0,3,4,5],labelcolor:2,lambda:[4,5],lanc:2,lancer:[0,3,4],le:[0,1,2,3,4,5,6,7],left:[4,5],leg:4,legend:[0,4,5],len:[0,1,3],leq:[2,4],leqq:2,lesquel:4,leur:0,librairi:4,lieu:2,lign:1,lim:2,lim_:4,linestyl:0,linewidth:0,lire:3,list:[2,3,4],list_moyenn:3,list_n:3,list_somme_pair:0,list_vari:3,lista:0,listb:0,listc:0,listd:0,liste1:3,liste2:3,livr:2,log:3,logiciel:4,logiqu:0,loi:[5,6],lor:[0,4],lorsqu:[0,3,4],lt:4,m:[1,2,3,4,6],mai:[0,4],mainten:[0,3,6],mani:0,maplotlib:4,markers:[4,5],marqu:4,marquer:4,match:4,math:4,mathbb:4,mathcal:[2,3],matplotlib:[0,1,2,3,4,5],maximal:[0,2],mdate:2,me:7,mean:[0,2,3],med:4,median:2,merci:7,mesur:[2,3],meteo:[2,3],method:0,minimal:[0,2,3],minut:4,miu:3,mode:[2,4],moin:[0,2,3],mon:7,monnai:4,monoton:5,montr:[0,6],morceaux:4,moyen:[0,4],moyenn:[0,2,3,4,5],moyenne_bin:3,moyenne_ecarts_valeurs_frequ:0,moyenne_freq:0,moyenne_pair:0,moyenne_press:3,mu:4,n:[0,2,3,4,5],n_1:4,n_2:4,n_3:4,n_:3,n_i:4,n_unif:[4,5],n_valeur:0,nan:1,naturel:2,ne:[0,2,5],neq:2,nombr:[0,2,3,4,5],nombre_essai:3,nombre_succ:3,nombreus:4,nombreux:5,non:4,normal:0,notat:2,note:[2,4],noter:4,notr:5,nou:[0,2,3,4,5],nouveau:[2,7],np:[0,1,2,3,4,5],nul:4,num:0,num_point:0,numpi:[0,1,2,3,4,5],o:[0,1,3,4,6],object:[0,1],objet:[2,3],observ:[2,4],obtenir:[0,2,4,5],obtenu:[0,2],obtient:[0,2],occur:[0,2],oeuf:[4,5],om:6,omega:[2,3,4],one:0,ont:3,operatornam:4,ordonn:4,origin:6,ou:[0,2,3,7],oui:5,overlin:2,p:[0,2,3,4,5],pa:[0,2,3,4,5],pair:[0,2],panda:[1,2,3],panier:4,par:[0,2,4,5,6],parmi:[2,4,5],partag:7,particuli:4,partir:[2,3,4,6],pass:5,patch:[0,3,4,5],pd:[1,2,3],pdf:4,pendant:4,period:2,permet:[0,2,4,5],permettr:4,personn:4,personnel:7,petit:[2,4,5],peut:[0,2,3,4,5,6],peuvent:4,phi:4,physexp2:[2,3],pi:[4,5],pile:[2,4],place:6,plan:[5,6],plot:[0,1,2,3,4,5],plt:[0,1,2,3,4,5],plu:[0,2,3,4],plusieur:4,pmatrix:6,pmf:4,point:[5,6],poisson:5,pondent:5,pondr:5,pondu:[4,5],pont:5,popul:4,posit:4,positiv:2,possibl:[2,4],poue:5,poul:4,pour:[0,1,2,3,4,5],pourquoi:0,pourra:4,pourrait:6,pouvait:4,pouvoir:2,pow:4,power:4,premier:3,prend:4,prendr:[2,4],prenn:4,pression:[2,3,4],pressur:2,print:[0,1,2,3],prise:[2,4],proba:3,probabl:2,processu:[2,4],proch:[0,4],produir:[4,5],produis:[4,5],produit:[2,6],projet:7,proportionnel:4,proposit:2,publi:2,pui:0,pyplot:[0,1,2,3,4,5],python:[0,4,5],q:[2,4],qu:[0,2,3,5],quad:4,quand:0,quantil:2,que:[0,1,2,3,5,6],quelconqu:6,quell:[2,5],quelqu:[2,4],question:7,qui:[0,1,2,4,5],r:[0,4,5],racin:2,rand:[4,5],randint:0,random:[3,4,5],rang:[0,1,2,3,4,5],rappel:[2,4,5],rapport:[0,2,4],rapproch:0,read_csv:[1,2,3],recherch:2,red:0,rel:2,relat:[2,4],releas:[2,3],remarqu:2,remov:0,repeat:0,reshape_yi:0,respect:2,restreint:2,retourn:[0,3,4],rho:2,rho_:3,right:[4,5],rightarrow:[2,4],rotat:2,round:[0,1],s:[1,2,3,4],sa:[0,2,3,4],sachant:2,sait:[2,3],san:0,scipi:[2,3,4],sdfltuw6gho:2,se:[0,4,5],second:2,selon:[0,4,5,7],sep:1,sera:4,servir:2,set:0,set_major_formatt:2,set_minor_formatt:2,set_titl:0,set_xlabel:[0,2,4],set_ylabel:[0,2],set_ylim:0,seul:4,seulement:2,sharei:0,show:[0,1,2,3,4,5],si:[0,2,3,4,5,6,7],sig:4,sigma:[2,3,4],sigma_:[2,3],sigma_i:[0,2,3],sigma_k:4,sigma_p:4,sigma_x:[2,3],signifi:[0,4],simpl:2,simul:3,sin:[4,5],sinon:3,sinusoidal:5,situ:0,six:4,skew:3,soient:6,soit:[2,3,4],solut:[4,5],somm:[2,3,4,6],somment:4,son:2,sont:[0,2,3,4,6],sou:[2,3,4,5],souvent:2,sqrt:[2,4],start:0,stat:[2,3,4],statistiqu:[3,4],std:[2,3],step:[0,5],stopwatch_2023:1,str:0,strptime:[2,3],subplot:[0,2,4],substitu:4,sui:7,suit:[4,5],suivant:[2,4,5,7],suivent:0,sum:[0,2,3],sum_:[0,2,3,4,5],sum_i:0,support:4,suppos:[2,4],supposon:[2,4],supprim:1,sur:[0,2,3,5],surject:4,t:4,t_i:1,tableau:7,taill:[0,2,4],tel:2,tell:4,temp:[1,2,3,4,5],temperatur:2,temporel:2,tend:0,tendanc:[2,3],tent:4,term:[4,5],tester:[4,5],text:4,textbf:6,theori:2,theoriqu:3,tick_param:2,tight_layout:0,time:[0,1,2,4,5],tirag:4,tire:3,tirer:3,tireur:3,titl:[0,1,3,4,5],titr:4,to_list:[2,3],to_numer:[2,3],tomb:2,tomber:2,tortu:5,total:[0,4],tou:5,touch:3,touche_c:3,toucher:3,toujour:[2,4],tout:[4,7],tp:0,trace:1,tracer:[3,6],tranch:2,transform:4,triangulair:0,trouv:4,trouver:[2,3,4,5],trouverait:2,trouvez:7,twinx:2,two:0,type:[0,2,4],u:6,un:[2,3,5,6,7],underset:4,uniform:[0,5],uniqu:[0,2],univ:[2,3,4],updat:5,url:[2,3],utilis:[2,3,4,5],v1:[2,3],v:[2,3,6],v_i:1,va:[0,2,3,4],val:4,valent:3,valeu:2,valeur:[0,2,3,4,5],valeurs_n:0,valid:5,valu:[0,4,5],variabl:2,varianc:[2,3,4],variance_bin:3,variance_press:3,variat:[0,2],vaut:[3,4,5],vec:6,vectoriel:6,vent:4,ver:0,verif:0,verifi:1,verifiez:[2,4],veut:[0,3,4,5],vie:[4,7],visuel:0,vitess:[1,2,4],voir:[0,2,4],voit:0,vou:[4,7],voulon:4,vrai:2,vraie:2,vs:[2,4],vue:3,w:6,watch:2,we:0,when:0,without:3,www:2,x1:4,x2:4,x:[0,1,2,3,4,5,6],x_0:0,x_1:0,x_2:0,x_3:0,x_4:0,x_5:0,x_6:0,x_7:0,x_:4,x_i:[0,2,3,4],xaxi:2,xlabel:[0,1,3,4,5],xtick:[2,5],xy:[2,3],y1:[2,4],y2:4,y:[0,1,2,3,4,5],y_0:0,y_1:0,y_2:0,y_3:0,y_i:[0,2,3,4],yerr:1,ylabel:[0,1,3,4,5],youtub:2,zip:3},titles:["TP1 : Distribution du tirage de d\u00e9s","TP2 : Mesure du coefficient de rebond d\u2019une balle","Chapitre 1","Exercice 1","Chapitre 2","Exercise 5","Chapitre 1","Physique CA"],titleterms:{"1":[0,2,3,5,6],"2":[0,3,4,5],"3":[3,5],"4":[3,5],"5":5,"6":5,"\u00e9chantillon":2,"al\u00e9atoir":4,"caract\u00e9ris":2,"cart\u00e9sienn":6,"coordon\u00e9":6,"cr\u00e9ation":0,"d\u00e9":0,"d\u00e9finit":2,"d\u00e9monstrat":4,"densit\u00e9":4,"discr\u00e8t":4,"donn\u00e9":2,"exp\u00e9rimental":[2,4,7],"g\u00e9n\u00e9ration":[0,4],"m\u00e9thode":7,"math\u00e9matiqu":7,"orthonorm\u00e9":6,"probabilit\u00e9":[0,2,4],"propri\u00e9t\u00e9":2,"r\u00e9lation":6,"rep\u00e9rer":6,"repr\u00e9sent":2,"syst\u00e8m":6,arguello:[0,1],auteur:[0,1],avec:0,ball:1,bernoulli:4,biject:4,binomial:4,c:4,ca:7,calcul:0,camilo:[0,1],ce:4,changement:4,chapitr:[2,4,6],chasl:6,coeffici:1,comment:6,concept:2,continu:4,d:[0,1,4],dan:6,de:[0,1,2,4,6],distribut:0,du:[0,1],en:2,ensemblist:2,erreur:4,espac:6,est:4,estim:0,estimateur:4,et:[0,2,4],exempl:4,exercic:3,exercis:5,fonction:4,form:4,gaussienn:4,histogramm:0,identiqu:6,introduct:0,l:6,la:[2,4],list:0,loi:4,mesur:[1,4],normal:4,notion:4,ou:4,physiqu:[2,7],pipag:0,place:2,poisson:4,popul:2,qu:4,que:4,question:5,random:0,rebond:1,remplissag:0,se:6,somm:0,statistiqu:2,sur:4,tirag:0,tp1:0,tp2:1,un:[0,1,4],uniform:4,usuel:4,variabl:4,vecteur:6}})

diff --git a/content/LU2PY215/TP/TP1/TP1.html b/content/LU2PY215/TP/TP1/TP1.html
@@ -817,8 +817,8 @@ Ecart moyen: 1.000
 </div>
 </div>
 <div class="cell_output docutils container">
-<div class="output stream highlight-myst-ansi notranslate"><div class="highlight"><pre><span></span>Moyenne de la fréquence: 4.393e-02
-Ecart moyen: 0.736
+<div class="output stream highlight-myst-ansi notranslate"><div class="highlight"><pre><span></span>Moyenne de la fréquence: 5.077e-02
+Ecart moyen: 0.695
 </pre></div>
 </div>
 </div>
@@ -836,7 +836,7 @@ Ecart moyen: 0.736
 </div>
 </div>
 <div class="cell_output docutils container">
-<div class="output stream highlight-myst-ansi notranslate"><div class="highlight"><pre><span></span>Moyenne de la fréquence: 2.044e-02
+<div class="output stream highlight-myst-ansi notranslate"><div class="highlight"><pre><span></span>Moyenne de la fréquence: 2.057e-02
 Ecart moyen: 0.877
 </pre></div>
 </div>
@@ -855,8 +855,8 @@ Ecart moyen: 0.877
 </div>
 </div>
 <div class="cell_output docutils container">
-<div class="output stream highlight-myst-ansi notranslate"><div class="highlight"><pre><span></span>Moyenne de la fréquence: 1.017e-02
-Ecart moyen: 0.939
+<div class="output stream highlight-myst-ansi notranslate"><div class="highlight"><pre><span></span>Moyenne de la fréquence: 1.052e-02
+Ecart moyen: 0.937
 </pre></div>
 </div>
 </div>
